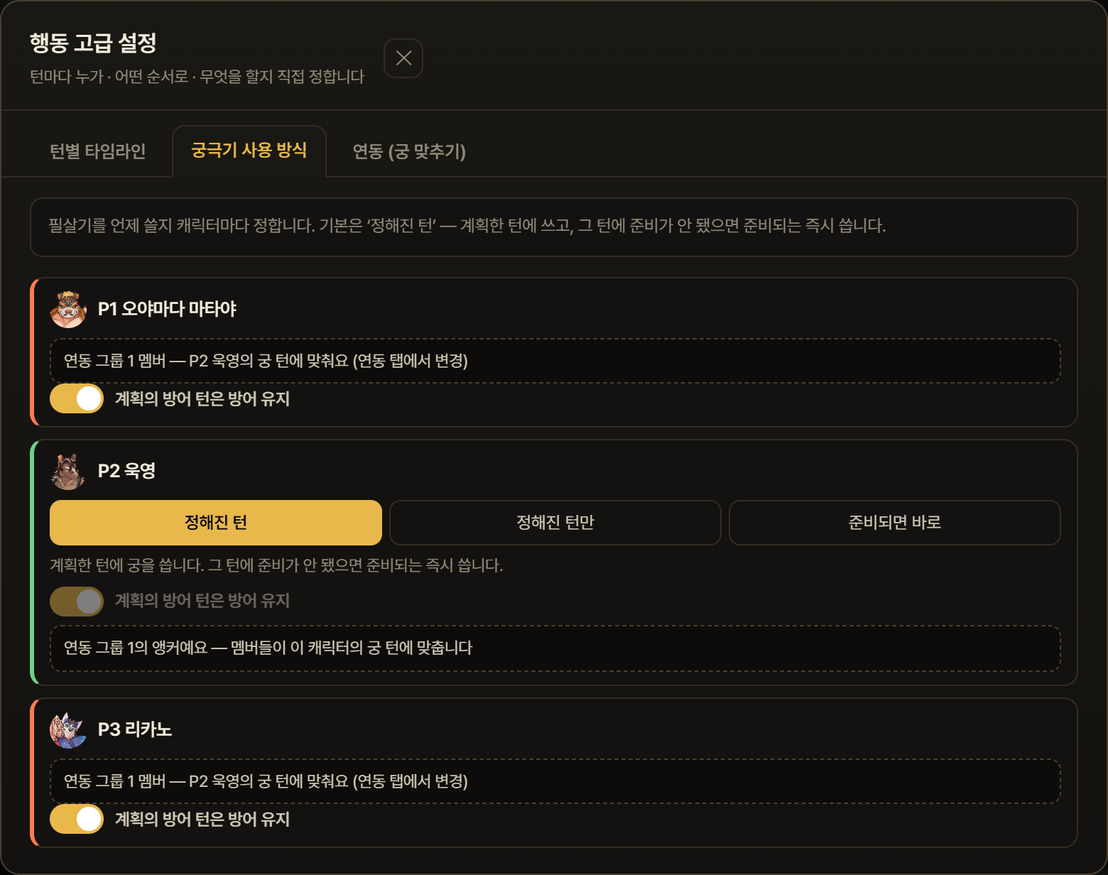
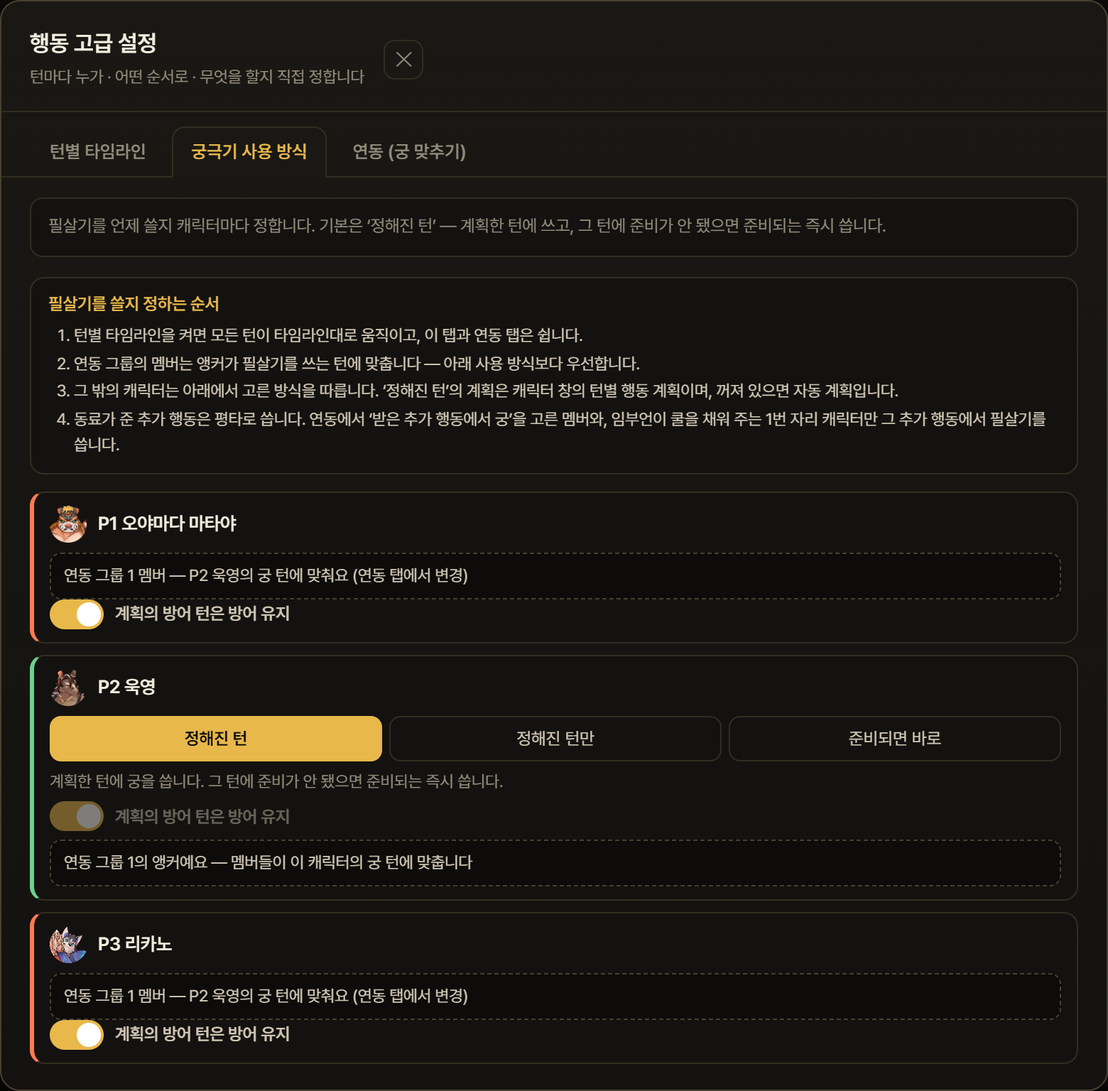
feat: 턴별 타임라인 '사용' 스위치를 탭 안으로 · 필살기 우선순위 설명 추가 · 1.8.3 패치노트 재작성
- 행동 고급 설정 머리말의 '사용' 스위치를 턴별 타임라인 탭 우측 상단으로 이동(궁극기 사용 방식·연동은 항상 적용)
- 궁극기 사용 방식 탭에 '필살기를 쓸지 정하는 순서'(타임라인 → 연동 → 사용 방식 → 추가 행동) 5개 언어
- 제단 패널의 기능 이동 안내 제거, 패치노트·가이드·README는 현재 기능 설명만
- 가이드 스크린샷(adv-head · altar-ult · altar-sync) 재촬영

diff --git a/dashboard/i18n.js b/dashboard/i18n.js
@@ -77,8 +77,8 @@
           "Ultimate policy",
         "(캐릭터마다 필살기를 언제 쓸지),":
           "(when each character uses its ultimate),",
-        "(한 캐릭터의 필살기 턴에 다른 캐릭터의 행동을 맞춤). 뒤의 두 탭은 스위치 없이 항상 적용되고, 길드 제단을 켜지 않아도 쓸 수 있습니다.":
-          "(align other characters’ actions to one character’s ultimate turn). The latter two tabs have no switch — they always apply, and work without Guild Altar settings.",
+        "(한 캐릭터의 필살기 턴에 다른 캐릭터의 행동을 맞춤). ‘사용’ 스위치는 턴별 타임라인 탭에만 있고, 나머지 두 탭은 항상 적용됩니다.":
+          "(align other characters’ actions to one character’s ultimate turn). The ‘Use’ switch is only in the Turn timeline tab; the other two tabs always apply.",
         "길드 제단 · 턴 피해":
           "Guild Altar · Turn Damage",
         "전투 설정 머리말의 버튼으로 길드전 방탈출의":
@@ -115,8 +115,8 @@
           "can only be enabled in order from Floor 1",
         "켤 수 있고, 위층을 켜면 아래층도 함께 켜집니다. 각 효과는 개별로 껐다 켤 수 있습니다.":
           "; enabling an upper floor also enables the ones below. Each effect can be toggled individually.",
-        "행동 고급 설정의 두 번째 탭입니다. 계획한 턴에 맞춰 쓸지(정해진 턴), 그 턴에만 쓸지(정해진 턴만), 준비되는 대로 바로 쓸지(준비되면 바로)를 캐릭터마다 고릅니다. 캐릭터 창에도 현재 방식이 요약되어 있고, 그 옆 버튼으로 이 탭이 바로 열립니다.":
-          "The second tab of Advanced Action Setup. Choose per character whether to use the ultimate on planned turns (Planned turns), only on those turns (Planned turns only), or as soon as it is ready (As soon as ready). The character window shows a summary of the current policy, and the button next to it opens this tab directly.",
+        "행동 고급 설정의 두 번째 탭입니다. 계획한 턴에 맞춰 쓸지(정해진 턴), 그 턴에만 쓸지(정해진 턴만), 준비되는 대로 바로 쓸지(준비되면 바로)를 캐릭터마다 고릅니다. 탭 위쪽에 필살기를 쓸지 정하는 우선순위(타임라인 → 연동 → 사용 방식 → 추가 행동)가 정리되어 있습니다. 캐릭터 창에도 현재 방식이 요약되어 있고, 그 옆 버튼으로 이 탭이 바로 열립니다.":
+          "The second tab of Advanced Action Setup. Choose per character whether to use the ultimate on planned turns (Planned turns), only on those turns (Planned turns only), or as soon as it is ready (As soon as ready). The top of the tab lists what decides the ultimate, in priority order (timeline → sync → policy → extra actions). The character window shows a summary of the current policy, and the button next to it opens this tab directly.",
         "길드 제단의 ‘행동 시 · 필살 시 확률로 CD 감소’ 효과가 걸려 있으면 필살기 쿨이 계획보다 앞당겨질 수 있습니다. 이때 탭 위에 안내가 뜨고, 버튼 하나로 전원을 ‘준비되면 바로’로 바꿀 수 있습니다.":
           "When the Guild Altar ‘chance to cut CD on action / on ultimate’ effects are active, the ultimate cooldown may come earlier than planned. A notice then appears at the top of the tab, and one button switches everyone to ‘As soon as ready’.",
         "연동 (궁 맞추기)":
@@ -303,8 +303,8 @@
           "A character with spec on gets a star badge at the bottom left of its team slot, so non-fully-invested characters stand out at a glance. In the compare window, click a character and use the “◈ Spec” button next to “Swap” to open the same screen; giving each group a different spec lets you compare investment levels directly.",
         "행동 우선순위 옆의 ‘행동 고급 설정’ 버튼을 누르면 열립니다. 턴마다 누가 · 어떤 순서로 · 무엇을 할지 전부 직접 정하는 화면입니다.":
           "Opens from the “Advanced Action Setup” button next to Action Priority. It is the screen where you decide, turn by turn, who acts, in what order, and with what action.",
-        "우측 상단 ‘사용’을 켜야 적용됩니다. 켜는 순간 행동 우선순위 · 특정 턴만 다르게 · 캐릭터별 턴별 행동 계획이 모두 이 화면으로 대체되고 잠깁니다. 끄면 원래 설정으로 돌아가고, 껐다 켜도 여기서 짠 내용은 지워지지 않습니다. 처음 켤 때는 기존 설정과 무관하게 기본 세팅에서 시작합니다.":
-          "It applies only when “Use” at the top right is on. The moment it is on, Action Priority, Per-turn override and Per-turn Action Plan are all replaced by this screen and locked. Turning it off restores the original settings, and what you built here is not erased by toggling. The first time you turn it on it starts from the default setup, independent of your existing settings.",
+        "턴별 타임라인 탭 우측 상단의 ‘사용’을 켜야 적용됩니다. 켜는 순간 행동 우선순위 · 특정 턴만 다르게 · 캐릭터별 턴별 행동 계획이 모두 이 화면으로 대체되고 잠깁니다. 끄면 원래 설정으로 돌아가고, 껐다 켜도 여기서 짠 내용은 지워지지 않습니다. 처음 켤 때는 기존 설정과 무관하게 기본 세팅에서 시작합니다.":
+          "It applies only when “Use” at the top right of the Turn timeline tab is on. The moment it is on, Action Priority, Per-turn override and Per-turn Action Plan are all replaced by this screen and locked. Turning it off restores the original settings, and what you built here is not erased by toggling. The first time you turn it on it starts from the default setup, independent of your existing settings.",
         "— 지금 턴의 편성을 통째로 복사해 다른 턴에 넣습니다. 넣을 수 없는 턴에는 거부됩니다.":
           "— copies the whole arrangement of the current turn into another turn. Turns it cannot fit are rejected.",
         "— 클립보드를 그대로 넣을 수 있는 턴을 찾아 선택만 해 줍니다. 실제 적용은 붙여넣기를 눌러야 일어나므로 어디에 들어갈지 먼저 확인할 수 있습니다. 4턴에 3턴궁 타이밍을 만든 뒤 이 버튼을 누르면 7·10·13턴이 한 번에 잡힙니다.":
@@ -724,8 +724,8 @@
           "必殺技使用方式",
         "(캐릭터마다 필살기를 언제 쓸지),":
           "（每位角色何時使用必殺技），",
-        "(한 캐릭터의 필살기 턴에 다른 캐릭터의 행동을 맞춤). 뒤의 두 탭은 스위치 없이 항상 적용되고, 길드 제단을 켜지 않아도 쓸 수 있습니다.":
-          "（讓其他角色的行動配合某位角色的必殺回合）。後兩個分頁沒有開關，永遠生效，且不開公會祭壇也能使用。",
+        "(한 캐릭터의 필살기 턴에 다른 캐릭터의 행동을 맞춤). ‘사용’ 스위치는 턴별 타임라인 탭에만 있고, 나머지 두 탭은 항상 적용됩니다.":
+          "（讓其他角色的行動配合某位角色的必殺回合）。「使用」開關只在回合時間軸分頁，其餘兩個分頁永遠生效。",
         "길드 제단 · 턴 피해":
           "公會祭壇・回合傷害",
         "전투 설정 머리말의 버튼으로 길드전 방탈출의":
@@ -762,8 +762,8 @@
           "只能從 1 樓起依序",
         "켤 수 있고, 위층을 켜면 아래층도 함께 켜집니다. 각 효과는 개별로 껐다 켤 수 있습니다.":
           "啟用，啟用上層時下層也會一併啟用。每個效果可個別開關。",
-        "행동 고급 설정의 두 번째 탭입니다. 계획한 턴에 맞춰 쓸지(정해진 턴), 그 턴에만 쓸지(정해진 턴만), 준비되는 대로 바로 쓸지(준비되면 바로)를 캐릭터마다 고릅니다. 캐릭터 창에도 현재 방식이 요약되어 있고, 그 옆 버튼으로 이 탭이 바로 열립니다.":
-          "行動進階設定的第二個分頁。為每位角色選擇在計畫回合使用（指定回合）、僅在該回合使用（僅指定回合）、或一就緒立即使用（就緒即用）。角色視窗也會摘要目前方式，旁邊的按鈕可直接開啟此分頁。",
+        "행동 고급 설정의 두 번째 탭입니다. 계획한 턴에 맞춰 쓸지(정해진 턴), 그 턴에만 쓸지(정해진 턴만), 준비되는 대로 바로 쓸지(준비되면 바로)를 캐릭터마다 고릅니다. 탭 위쪽에 필살기를 쓸지 정하는 우선순위(타임라인 → 연동 → 사용 방식 → 추가 행동)가 정리되어 있습니다. 캐릭터 창에도 현재 방식이 요약되어 있고, 그 옆 버튼으로 이 탭이 바로 열립니다.":
+          "行動進階設定的第二個分頁。為每位角色選擇在計畫回合使用（指定回合）、僅在該回合使用（僅指定回合）、或一就緒立即使用（就緒即用）。分頁上方整理了決定是否放必殺的優先順序（時間軸 → 連動 → 使用方式 → 追加行動）。角色視窗也會摘要目前方式，旁邊的按鈕可直接開啟此分頁。",
         "길드 제단의 ‘행동 시 · 필살 시 확률로 CD 감소’ 효과가 걸려 있으면 필살기 쿨이 계획보다 앞당겨질 수 있습니다. 이때 탭 위에 안내가 뜨고, 버튼 하나로 전원을 ‘준비되면 바로’로 바꿀 수 있습니다.":
           "若公會祭壇的「行動時・必殺時有機率縮短CD」生效，必殺技冷卻可能比計畫更早。此時分頁上方會顯示提示，可一鍵將全員改為「就緒即用」。",
         "연동 (궁 맞추기)":
@@ -950,8 +950,8 @@
           "開啟培養設定的角色，其編組格左下會出現星級徽章，可一眼分辨非滿培養的角色。在比較視窗中點擊角色後，可用「更換」旁的「◈ 培養」按鈕開啟同一畫面；為各比較組設定不同培養，即可直接比較培養度差異。",
         "행동 우선순위 옆의 ‘행동 고급 설정’ 버튼을 누르면 열립니다. 턴마다 누가 · 어떤 순서로 · 무엇을 할지 전부 직접 정하는 화면입니다.":
           "點擊行動優先順序旁的「行動進階設定」按鈕即可開啟。這是逐回合自行決定誰 · 依什麼順序 · 做什麼的畫面。",
-        "우측 상단 ‘사용’을 켜야 적용됩니다. 켜는 순간 행동 우선순위 · 특정 턴만 다르게 · 캐릭터별 턴별 행동 계획이 모두 이 화면으로 대체되고 잠깁니다. 끄면 원래 설정으로 돌아가고, 껐다 켜도 여기서 짠 내용은 지워지지 않습니다. 처음 켤 때는 기존 설정과 무관하게 기본 세팅에서 시작합니다.":
-          "需開啟右上的「使用」才會套用。開啟的瞬間，行動優先順序 · 指定回合不同 · 逐回合行動計畫都會由本畫面取代並鎖定。關閉後會回到原本的設定，且反覆開關也不會清除在此編排的內容。首次開啟時與既有設定無關，從預設配置開始。",
+        "턴별 타임라인 탭 우측 상단의 ‘사용’을 켜야 적용됩니다. 켜는 순간 행동 우선순위 · 특정 턴만 다르게 · 캐릭터별 턴별 행동 계획이 모두 이 화면으로 대체되고 잠깁니다. 끄면 원래 설정으로 돌아가고, 껐다 켜도 여기서 짠 내용은 지워지지 않습니다. 처음 켤 때는 기존 설정과 무관하게 기본 세팅에서 시작합니다.":
+          "需開啟回合時間軸分頁右上的「使用」才會套用。開啟的瞬間，行動優先順序 · 指定回合不同 · 逐回合行動計畫都會由本畫面取代並鎖定。關閉後會回到原本的設定，且反覆開關也不會清除在此編排的內容。首次開啟時與既有設定無關，從預設配置開始。",
         "— 지금 턴의 편성을 통째로 복사해 다른 턴에 넣습니다. 넣을 수 없는 턴에는 거부됩니다.":
           "— 將目前回合的編排整份複製到其他回合。無法放入的回合會被拒絕。",
         "— 클립보드를 그대로 넣을 수 있는 턴을 찾아 선택만 해 줍니다. 실제 적용은 붙여넣기를 눌러야 일어나므로 어디에 들어갈지 먼저 확인할 수 있습니다. 4턴에 3턴궁 타이밍을 만든 뒤 이 버튼을 누르면 7·10·13턴이 한 번에 잡힙니다.":
@@ -1522,8 +1522,8 @@
           "必杀技使用方式",
         "(캐릭터마다 필살기를 언제 쓸지),":
           "（每位角色何时使用必杀技），",
-        "(한 캐릭터의 필살기 턴에 다른 캐릭터의 행동을 맞춤). 뒤의 두 탭은 스위치 없이 항상 적용되고, 길드 제단을 켜지 않아도 쓸 수 있습니다.":
-          "（让其他角色的行动配合某位角色的必杀回合）。后两个分页没有开关，永远生效，且不开公会祭坛也能使用。",
+        "(한 캐릭터의 필살기 턴에 다른 캐릭터의 행동을 맞춤). ‘사용’ 스위치는 턴별 타임라인 탭에만 있고, 나머지 두 탭은 항상 적용됩니다.":
+          "（让其他角色的行动配合某位角色的必杀回合）。「使用」开关只在回合时间轴分页，其余两个分页永远生效。",
         "길드 제단 · 턴 피해":
           "公会祭坛・回合伤害",
         "전투 설정 머리말의 버튼으로 길드전 방탈출의":
@@ -1560,8 +1560,8 @@
           "只能从 1 层起依序",
         "켤 수 있고, 위층을 켜면 아래층도 함께 켜집니다. 각 효과는 개별로 껐다 켤 수 있습니다.":
           "启用，启用上层时下层也会一并启用。每个效果可单独开关。",
-        "행동 고급 설정의 두 번째 탭입니다. 계획한 턴에 맞춰 쓸지(정해진 턴), 그 턴에만 쓸지(정해진 턴만), 준비되는 대로 바로 쓸지(준비되면 바로)를 캐릭터마다 고릅니다. 캐릭터 창에도 현재 방식이 요약되어 있고, 그 옆 버튼으로 이 탭이 바로 열립니다.":
-          "行动进阶设置的第二个分页。为每位角色选择在计划回合使用（指定回合）、仅在该回合使用（仅指定回合）、或一就绪立即使用（就绪即用）。角色窗口也会摘要当前方式，旁边的按钮可直接打开此分页。",
+        "행동 고급 설정의 두 번째 탭입니다. 계획한 턴에 맞춰 쓸지(정해진 턴), 그 턴에만 쓸지(정해진 턴만), 준비되는 대로 바로 쓸지(준비되면 바로)를 캐릭터마다 고릅니다. 탭 위쪽에 필살기를 쓸지 정하는 우선순위(타임라인 → 연동 → 사용 방식 → 추가 행동)가 정리되어 있습니다. 캐릭터 창에도 현재 방식이 요약되어 있고, 그 옆 버튼으로 이 탭이 바로 열립니다.":
+          "行动进阶设置的第二个分页。为每位角色选择在计划回合使用（指定回合）、仅在该回合使用（仅指定回合）、或一就绪立即使用（就绪即用）。分页上方整理了决定是否放必杀的优先顺序（时间轴 → 联动 → 使用方式 → 追加行动）。角色窗口也会摘要当前方式，旁边的按钮可直接打开此分页。",
         "길드 제단의 ‘행동 시 · 필살 시 확률로 CD 감소’ 효과가 걸려 있으면 필살기 쿨이 계획보다 앞당겨질 수 있습니다. 이때 탭 위에 안내가 뜨고, 버튼 하나로 전원을 ‘준비되면 바로’로 바꿀 수 있습니다.":
           "若公会祭坛的「行动时・必杀时有概率缩短CD」生效，必杀技冷却可能比计划更早。此时分页上方会显示提示，可一键将全员改为「就绪即用」。",
         "연동 (궁 맞추기)":
@@ -1748,8 +1748,8 @@
           "开启培养设置的角色，其编组格左下会出现星级徽章，可一眼分辨非满培养的角色。在比较窗口中点击角色后，可用「更换」旁的「◈ 培养」按钮打开同一画面；为各比较组设定不同培养，即可直接比较培养度差异。",
         "행동 우선순위 옆의 ‘행동 고급 설정’ 버튼을 누르면 열립니다. 턴마다 누가 · 어떤 순서로 · 무엇을 할지 전부 직접 정하는 화면입니다.":
           "点击行动优先顺序旁的「行动进阶设置」按钮即可开启。这是逐回合自行决定谁 · 按什么顺序 · 做什么的画面。",
-        "우측 상단 ‘사용’을 켜야 적용됩니다. 켜는 순간 행동 우선순위 · 특정 턴만 다르게 · 캐릭터별 턴별 행동 계획이 모두 이 화면으로 대체되고 잠깁니다. 끄면 원래 설정으로 돌아가고, 껐다 켜도 여기서 짠 내용은 지워지지 않습니다. 처음 켤 때는 기존 설정과 무관하게 기본 세팅에서 시작합니다.":
-          "需开启右上的「使用」才会应用。开启的瞬间，行动优先顺序 · 指定回合不同 · 逐回合行动计划都会由本画面取代并锁定。关闭后会回到原本的设置，且反复开关也不会清除在此编排的内容。首次开启时与既有设置无关，从默认配置开始。",
+        "턴별 타임라인 탭 우측 상단의 ‘사용’을 켜야 적용됩니다. 켜는 순간 행동 우선순위 · 특정 턴만 다르게 · 캐릭터별 턴별 행동 계획이 모두 이 화면으로 대체되고 잠깁니다. 끄면 원래 설정으로 돌아가고, 껐다 켜도 여기서 짠 내용은 지워지지 않습니다. 처음 켤 때는 기존 설정과 무관하게 기본 세팅에서 시작합니다.":
+          "需开启回合时间轴分页右上的「使用」才会应用。开启的瞬间，行动优先顺序 · 指定回合不同 · 逐回合行动计划都会由本画面取代并锁定。关闭后会回到原本的设置，且反复开关也不会清除在此编排的内容。首次开启时与既有设置无关，从默认配置开始。",
         "— 지금 턴의 편성을 통째로 복사해 다른 턴에 넣습니다. 넣을 수 없는 턴에는 거부됩니다.":
           "— 将当前回合的编排整份复制到其他回合。无法放入的回合会被拒绝。",
         "— 클립보드를 그대로 넣을 수 있는 턴을 찾아 선택만 해 줍니다. 실제 적용은 붙여넣기를 눌러야 일어나므로 어디에 들어갈지 먼저 확인할 수 있습니다. 4턴에 3턴궁 타이밍을 만든 뒤 이 버튼을 누르면 7·10·13턴이 한 번에 잡힙니다.":
@@ -2320,8 +2320,8 @@
           "必殺技の使い方",
         "(캐릭터마다 필살기를 언제 쓸지),":
           "（キャラごとに必殺技をいつ使うか）、",
-        "(한 캐릭터의 필살기 턴에 다른 캐릭터의 행동을 맞춤). 뒤의 두 탭은 스위치 없이 항상 적용되고, 길드 제단을 켜지 않아도 쓸 수 있습니다.":
-          "（あるキャラの必殺ターンに他のキャラの行動を合わせる）。後ろの2つのタブはスイッチなしで常に適用され、ギルド祭壇を使わなくても利用できます。",
+        "(한 캐릭터의 필살기 턴에 다른 캐릭터의 행동을 맞춤). ‘사용’ 스위치는 턴별 타임라인 탭에만 있고, 나머지 두 탭은 항상 적용됩니다.":
+          "（あるキャラの必殺ターンに他のキャラの行動を合わせる）。「使用」スイッチはターン別タイムラインタブにだけあり、残り2つのタブは常に適用されます。",
         "길드 제단 · 턴 피해":
           "ギルド祭壇・ターンダメージ",
         "전투 설정 머리말의 버튼으로 길드전 방탈출의":
@@ -2358,8 +2358,8 @@
           "1階から順にのみ",
         "켤 수 있고, 위층을 켜면 아래층도 함께 켜집니다. 각 효과는 개별로 껐다 켤 수 있습니다.":
           "有効化でき、上の階を有効にすると下の階も一緒に有効になります。各効果は個別にオン・オフできます。",
-        "행동 고급 설정의 두 번째 탭입니다. 계획한 턴에 맞춰 쓸지(정해진 턴), 그 턴에만 쓸지(정해진 턴만), 준비되는 대로 바로 쓸지(준비되면 바로)를 캐릭터마다 고릅니다. 캐릭터 창에도 현재 방식이 요약되어 있고, 그 옆 버튼으로 이 탭이 바로 열립니다.":
-          "行動詳細設定の2番目のタブです。計画したターンに使う（指定ターン）、そのターンだけ使う（指定ターンのみ）、準備でき次第使う（準備でき次第）をキャラごとに選びます。キャラ画面にも現在の方式が要約され、その横のボタンでこのタブがすぐ開きます。",
+        "행동 고급 설정의 두 번째 탭입니다. 계획한 턴에 맞춰 쓸지(정해진 턴), 그 턴에만 쓸지(정해진 턴만), 준비되는 대로 바로 쓸지(준비되면 바로)를 캐릭터마다 고릅니다. 탭 위쪽에 필살기를 쓸지 정하는 우선순위(타임라인 → 연동 → 사용 방식 → 추가 행동)가 정리되어 있습니다. 캐릭터 창에도 현재 방식이 요약되어 있고, 그 옆 버튼으로 이 탭이 바로 열립니다.":
+          "行動詳細設定の2番目のタブです。計画したターンに使う（指定ターン）、そのターンだけ使う（指定ターンのみ）、準備でき次第使う（準備でき次第）をキャラごとに選びます。タブ上部に必殺技を使うかどうかの優先順位（タイムライン → 連動 → 使い方 → 追加行動）がまとめられています。キャラ画面にも現在の方式が要約され、その横のボタンでこのタブがすぐ開きます。",
         "길드 제단의 ‘행동 시 · 필살 시 확률로 CD 감소’ 효과가 걸려 있으면 필살기 쿨이 계획보다 앞당겨질 수 있습니다. 이때 탭 위에 안내가 뜨고, 버튼 하나로 전원을 ‘준비되면 바로’로 바꿀 수 있습니다.":
           "ギルド祭壇の「行動時・必殺時に確率でCD短縮」効果が有効だと、必殺技のクールが計画より早まることがあります。その場合タブ上部に案内が出て、ボタン1つで全員を「準備でき次第」に切り替えられます。",
         "연동 (궁 맞추기)":
@@ -2546,8 +2546,8 @@
           "育成設定をオンにしたキャラは編成スロットの左下に星バッジが付き、フル育成でないキャラが一目で分かります。比較ウィンドウではキャラを押したあと「入替」の隣の「◈ 育成」ボタンで同じ画面を開けます。比較群ごとに育成を変えれば、育成度の差をそのまま比較できます。",
         "행동 우선순위 옆의 ‘행동 고급 설정’ 버튼을 누르면 열립니다. 턴마다 누가 · 어떤 순서로 · 무엇을 할지 전부 직접 정하는 화면입니다.":
           "行動優先順の隣の「行動詳細設定」ボタンで開きます。ターンごとに誰が · どの順で · 何をするかをすべて自分で決める画面です。",
-        "우측 상단 ‘사용’을 켜야 적용됩니다. 켜는 순간 행동 우선순위 · 특정 턴만 다르게 · 캐릭터별 턴별 행동 계획이 모두 이 화면으로 대체되고 잠깁니다. 끄면 원래 설정으로 돌아가고, 껐다 켜도 여기서 짠 내용은 지워지지 않습니다. 처음 켤 때는 기존 설정과 무관하게 기본 세팅에서 시작합니다.":
-          "右上の「使用」をオンにして初めて適用されます。オンにした瞬間、行動優先順 · 特定ターンのみ変更 · キャラ別ターン別行動計画がすべてこの画面に置き換わりロックされます。オフにすれば元の設定に戻り、切り替えてもここで組んだ内容は消えません。初回オン時は既存設定と無関係に初期配置から始まります。",
+        "턴별 타임라인 탭 우측 상단의 ‘사용’을 켜야 적용됩니다. 켜는 순간 행동 우선순위 · 특정 턴만 다르게 · 캐릭터별 턴별 행동 계획이 모두 이 화면으로 대체되고 잠깁니다. 끄면 원래 설정으로 돌아가고, 껐다 켜도 여기서 짠 내용은 지워지지 않습니다. 처음 켤 때는 기존 설정과 무관하게 기본 세팅에서 시작합니다.":
+          "ターン別タイムラインタブ右上の「使用」をオンにして初めて適用されます。オンにした瞬間、行動優先順 · 特定ターンのみ変更 · キャラ別ターン別行動計画がすべてこの画面に置き換わりロックされます。オフにすれば元の設定に戻り、切り替えてもここで組んだ内容は消えません。初回オン時は既存設定と無関係に初期配置から始まります。",
         "— 지금 턴의 편성을 통째로 복사해 다른 턴에 넣습니다. 넣을 수 없는 턴에는 거부됩니다.":
           "— 現在のターンの編成を丸ごとコピーして別のターンに入れます。入れられないターンには拒否されます。",
         "— 클립보드를 그대로 넣을 수 있는 턴을 찾아 선택만 해 줍니다. 실제 적용은 붙여넣기를 눌러야 일어나므로 어디에 들어갈지 먼저 확인할 수 있습니다. 4턴에 3턴궁 타이밍을 만든 뒤 이 버튼을 누르면 7·10·13턴이 한 번에 잡힙니다.":

diff --git a/dashboard/app.js b/dashboard/app.js
@@ -1440,12 +1440,27 @@ const ADV_T = {
                ja: 'タイムラインがオンの間は適用されない設定：{0}。反映するには「既存設定を読み込む」を押してください。' },
   conflictOv: { kr: '특정 턴만 다르게({0}턴)', en: 'Per-turn order (T{0})', zh: '特定回合順序（第 {0} 回合）', zhs: '特定回合顺序（第 {0} 回合）', ja: '特定ターンの順序（{0}ターン）' },
   conflictPlan: { kr: '캐릭터별 턴 계획({0})', en: 'Per-character turn plans ({0})', zh: '角色回合計畫（{0}）', zhs: '角色回合计划（{0}）', ja: 'キャラ別ターン計画（{0}）' },
-  altarMoved: { kr: '연동(궁 맞추기)과 궁극기 사용 방식은 행동 고급 설정으로 옮겨졌어요 — 제단을 켜지 않아도 쓸 수 있어요.',
-               en: 'Sync (ultimate timing) and Ultimate policy moved to Advanced Action Setup — they work without altars too.',
-               zh: '連動（必殺同步）與必殺技使用方式已移至行動進階設定 — 不開祭壇也能使用。',
-               zhs: '联动（必杀同步）与必杀技使用方式已移至行动进阶设置 — 不开祭坛也能使用。',
-               ja: '連動（必殺同期）と必殺技の使い方は行動詳細設定に移りました — 祭壇を使わなくても使えます。' },
-  altarMovedOpen: { kr: '열기', en: 'Open', zh: '開啟', zhs: '打开', ja: '開く' },
+  orderTitle: { kr: '필살기를 쓸지 정하는 순서', en: 'What decides the ultimate (highest first)', zh: '決定是否使用必殺技的優先順序', zhs: '决定是否使用必杀技的优先顺序', ja: '必殺技を使うかどうかの優先順位' },
+  order1:    { kr: '턴별 타임라인을 켜면 모든 턴이 타임라인대로 움직이고, 이 탭과 연동 탭은 쉽니다.',
+               en: 'With the turn timeline on, every turn follows the timeline and this tab and the Sync tab are paused.',
+               zh: '開啟回合時間軸時，所有回合依時間軸行動，此分頁與連動分頁暫停。',
+               zhs: '开启回合时间轴时，所有回合依时间轴行动，此分页与联动分页暂停。',
+               ja: 'ターン別タイムラインをオンにすると全ターンがタイムライン通りに動き、このタブと連動タブは休みます。' },
+  order2:    { kr: '연동 그룹의 멤버는 앵커가 필살기를 쓰는 턴에 맞춥니다 — 아래 사용 방식보다 우선합니다.',
+               en: 'Sync group members follow the turns their anchor uses its ultimate — this overrides the policy below.',
+               zh: '連動組成員配合錨點使用必殺技的回合 — 優先於下方的使用方式。',
+               zhs: '联动组成员配合锚点使用必杀技的回合 — 优先于下方的使用方式。',
+               ja: '連動グループのメンバーはアンカーが必殺技を使うターンに合わせます — 下の使い方より優先します。' },
+  order3:    { kr: '그 밖의 캐릭터는 아래에서 고른 방식을 따릅니다. ‘정해진 턴’의 계획은 캐릭터 창의 턴별 행동 계획이며, 꺼져 있으면 자동 계획입니다.',
+               en: 'Everyone else follows the policy chosen below. The plan behind ‘Planned turns’ is the per-turn action plan in the character window, or the automatic plan when that is off.',
+               zh: '其他角色依下方選擇的方式。「指定回合」的計畫是角色視窗中的逐回合行動計畫，關閉時為自動計畫。',
+               zhs: '其他角色依下方选择的方式。「指定回合」的计划是角色窗口中的逐回合行动计划，关闭时为自动计划。',
+               ja: 'それ以外のキャラは下で選んだ方式に従います。「指定ターン」の計画はキャラ画面のターン別行動計画で、オフなら自動計画です。' },
+  order4:    { kr: '동료가 준 추가 행동은 평타로 씁니다. 연동에서 ‘받은 추가 행동에서 궁’을 고른 멤버와, 임부언이 쿨을 채워 주는 1번 자리 캐릭터만 그 추가 행동에서 필살기를 씁니다.',
+               en: 'Extra actions granted by allies are used as attacks. Only sync members set to ‘ultimate in the granted extra action’ and the position-1 character whose cooldown Boss Ren refills use the ultimate there.',
+               zh: '隊友給予的追加行動以普攻使用。只有在連動中選擇「用獲得的追加行動放必殺」的成員，以及由任富言補滿冷卻的 1 號位角色，會在該追加行動中放必殺。',
+               zhs: '队友给予的追加行动以普攻使用。只有在联动中选择「用获得的追加行动放必杀」的成员，以及由任富言补满冷却的 1 号位角色，会在该追加行动中放必杀。',
+               ja: '味方からもらった追加行動は通常攻撃になります。連動で「もらった追加行動で必殺」を選んだメンバーと、任富言がクールを満たす1番位置のキャラだけが、その追加行動で必殺技を使います。' },
 };
 function advT(key, ...args) {             // 로컬 사전 → 현재 언어(없으면 kr) + {n} 치환
   const v = ADV_T[key];
@@ -1880,17 +1895,16 @@ function renderCellPop(card) {
 
 function renderAdv() {
   const card = document.querySelector('.adv-card'); if (!card) return;
-  // ── 탭: 세 패널 중 하나만 보인다. '사용' 스위치는 타임라인 탭에만 뜬다(다른 두 탭은 항상 적용).
+  // ── 탭: 세 패널 중 하나만 보인다. '사용' 스위치는 타임라인 탭 안에 있다(다른 두 탭은 항상 적용).
   card.querySelectorAll('[data-advtab]').forEach(b => {
     b.classList.toggle('on', b.dataset.advtab === advTab);
     b.setAttribute('aria-selected', b.dataset.advtab === advTab ? 'true' : 'false');
   });
   ['time', 'ult', 'sync'].forEach(t => { const pane = $('.adv-pane-' + t, card); if (pane) pane.hidden = advTab !== t; });
-  const swWrap = $('#advSwitchWrap', card); if (swWrap) swWrap.hidden = advTab !== 'time';
   renderAdvUlt(card);
   renderAdvSync(card);
   renderAdvConflict(card);
-  $('.adv-pane-time', card).classList.toggle('off', !advOn);
+  $('.adv-time-body', card).classList.toggle('off', !advOn);   // 스위치는 흐리게 하지 않는다(켜야 하니까)
   const n = advTurns();
   if (advSel > n) advSel = n;
 
@@ -2048,6 +2062,7 @@ function renderAdvUlt(card) {
   const pane = $('.adv-pane-ult', card); if (!pane) return;
   const roster = aTeam();
   let html = `<div class="adv-hint">${esc(advT('ultHint'))}</div>`;
+  html += `<div class="adv-order"><b>${esc(advT('orderTitle'))}</b><ol>${[1, 2, 3, 4].map(n => `<li>${esc(advT('order' + n))}</li>`).join('')}</ol></div>`;
   if (advOn) html += `<div class="adv-note lock">${esc(advT('timeOn'))}</div>`;
   if (altarProcCdActive().length) html += `<div class="adv-note warn"><span>${esc(advT('cdProcWarn'))}</span>
     <button type="button" class="btn-ghost sm" data-ultall="asap">${esc(advT('cdProcAll'))}</button></div>`;
@@ -2206,7 +2221,6 @@ function openAdvPop() {
   pop.innerHTML = `<div class="adv-card" role="dialog" aria-modal="true" aria-label="행동 고급 설정">
   <div class="adv-head">
     <h3>행동 고급 설정${advScope ? ` <em class="adv-scope">비교군 ${advScope.toUpperCase()}</em>` : ''}<span class="adv-sub">턴마다 누가 · 어떤 순서로 · 무엇을 할지 직접 정합니다</span></h3>
-    <label class="toggle" id="advSwitchWrap"><input type="checkbox" id="advSwitch" ${advOn ? 'checked' : ''}><span class="sw"></span>사용</label>
     <button type="button" class="adv-x" data-advclose aria-label="닫기">✕</button>
   </div>
   <div class="adv-tabs i18n-skip" role="tablist">
@@ -2214,8 +2228,12 @@ function openAdvPop() {
     <button type="button" role="tab" data-advtab="ult">${esc(altarT('ultTitle'))}</button>
     <button type="button" role="tab" data-advtab="sync">${esc(advT('tabSync'))}</button>
   </div>
-  <div class="adv-body adv-pane adv-pane-time ${advOn ? '' : 'off'}">
-    <div class="adv-hint">켜면 행동 우선순위 · 특정 턴만 다르게 · 캐릭터별 턴별 행동 계획이 모두 이 화면으로 대체됩니다. 같은 캐릭터가 한 턴에 여러 번 행동할 수 있고, ‘추가’ 표시는 앞선 필살기가 만들어 준 행동입니다.</div>
+  <div class="adv-body adv-pane adv-pane-time">
+    <div class="adv-timehead">
+      <div class="adv-hint">켜면 행동 우선순위 · 특정 턴만 다르게 · 캐릭터별 턴별 행동 계획이 모두 이 화면으로 대체됩니다. 같은 캐릭터가 한 턴에 여러 번 행동할 수 있고, ‘추가’ 표시는 앞선 필살기가 만들어 준 행동입니다.</div>
+      <label class="toggle" id="advSwitchWrap"><input type="checkbox" id="advSwitch" ${advOn ? 'checked' : ''}><span class="sw"></span>사용</label>
+    </div>
+    <div class="adv-time-body ${advOn ? '' : 'off'}">
     <div class="adv-note warn adv-conflict i18n-skip" hidden></div>
     <div class="adv-tools">
       <button type="button" class="btn-ghost sm" id="advCopy">복사</button>
@@ -2241,6 +2259,7 @@ function openAdvPop() {
       <button type="button" class="btn-ghost sm" id="advResetAll">전체 턴 기본값으로</button>
       <button type="button" class="btn-ghost sm" id="advImport"
         title="캐릭터별 턴 계획 · 행동 우선순위 · 특정 턴 순서로 돌린 결과를 타임라인으로 가져옵니다">기존 설정 불러오기</button>
+    </div>
     </div>
   </div>
   <div class="adv-body adv-pane adv-pane-ult i18n-skip" hidden></div>
@@ -3105,11 +3124,6 @@ function _decAltar(str) {
   return out;
 }
 
-function altarMovedHTML() {               // 패널 하단: 연동·궁극기 사용 방식이 행동 고급 설정으로 옮겨졌다는 안내 + 바로 열기
-  return `<div class="altar-moved"><span>${esc(advT('altarMoved'))}</span>
-    <button type="button" class="btn-ghost sm" data-advopen="sync">${esc(advT('altarMovedOpen'))}</button></div>`;
-}
-// 메인 캐릭터 창: 현재 방식 요약 + '행동 고급 설정에서 변경'(편집은 한 곳으로). i18n-skip — 이 모듈이 직접 렌더.
 function ultSummaryHTML(slot, pos) {
   const u = ultOf(slot), grp = syncGroupOf(pos);
   const now = (grp && grp.role === 'member')
@@ -3234,7 +3248,7 @@ function altarBodyHTML() {
     </section>`;
   }).join('');
   return `<div class="altar-hint">${esc(altarT('hint'))}<br><b>${esc(altarT('floorRule'))}</b></div>`
-    + `${floors}${altarMovedHTML()}<div class="altar-note">${esc(altarT('note'))}</div>`;
+    + `${floors}<div class="altar-note">${esc(altarT('note'))}</div>`;
 }
 function altarHost() {                     // 현재 열린 컨테이너(팝업 .altar-card / 사이드 .altar-inner)
   return document.querySelector('.altar-modal .altar-card') || document.querySelector('#altarSide .altar-inner');

diff --git a/dashboard/index.html b/dashboard/index.html
@@ -266,10 +266,10 @@
       <figure><img src="guide/turn-priority.png" alt="특정 턴만 다르게"></figure>
 
       <h4>행동 고급 설정</h4>
-      <p>행동 우선순위 옆의 ‘행동 고급 설정’ 버튼을 누르면 열립니다. 탭이 세 개입니다 — <b>턴별 타임라인</b>(턴마다 누가 · 어떤 순서로 · 무엇을 할지 전부 직접 정함), <b>궁극기 사용 방식</b>(캐릭터마다 필살기를 언제 쓸지), <b>연동</b>(한 캐릭터의 필살기 턴에 다른 캐릭터의 행동을 맞춤). 뒤의 두 탭은 스위치 없이 항상 적용되고, 길드 제단을 켜지 않아도 쓸 수 있습니다.</p>
+      <p>행동 우선순위 옆의 ‘행동 고급 설정’ 버튼을 누르면 열립니다. 탭이 세 개입니다 — <b>턴별 타임라인</b>(턴마다 누가 · 어떤 순서로 · 무엇을 할지 전부 직접 정함), <b>궁극기 사용 방식</b>(캐릭터마다 필살기를 언제 쓸지), <b>연동</b>(한 캐릭터의 필살기 턴에 다른 캐릭터의 행동을 맞춤). ‘사용’ 스위치는 턴별 타임라인 탭에만 있고, 나머지 두 탭은 항상 적용됩니다.</p>
 
       <figure class="g-crop"><img src="guide/adv-head.png" alt="고급 설정 머리말"></figure>
-      <p>우측 상단 ‘사용’을 켜야 적용됩니다. 켜는 순간 행동 우선순위 · 특정 턴만 다르게 · 캐릭터별 턴별 행동 계획이 모두 이 화면으로 대체되고 잠깁니다. 끄면 원래 설정으로 돌아가고, 껐다 켜도 여기서 짠 내용은 지워지지 않습니다. 처음 켤 때는 기존 설정과 무관하게 기본 세팅에서 시작합니다.</p>
+      <p>턴별 타임라인 탭 우측 상단의 ‘사용’을 켜야 적용됩니다. 켜는 순간 행동 우선순위 · 특정 턴만 다르게 · 캐릭터별 턴별 행동 계획이 모두 이 화면으로 대체되고 잠깁니다. 끄면 원래 설정으로 돌아가고, 껐다 켜도 여기서 짠 내용은 지워지지 않습니다. 처음 켤 때는 기존 설정과 무관하게 기본 세팅에서 시작합니다.</p>
 
       <figure class="g-crop"><img src="guide/adv-tools.png" alt="편집 도구"></figure>
       <ul>
@@ -326,7 +326,7 @@
       <figure class="g-crop"><img src="guide/altar-panel.png" alt="길드 제단 설정 패널"></figure>
 
       <h4>궁극기 사용 방식</h4>
-      <p>행동 고급 설정의 두 번째 탭입니다. 계획한 턴에 맞춰 쓸지(정해진 턴), 그 턴에만 쓸지(정해진 턴만), 준비되는 대로 바로 쓸지(준비되면 바로)를 캐릭터마다 고릅니다. 캐릭터 창에도 현재 방식이 요약되어 있고, 그 옆 버튼으로 이 탭이 바로 열립니다.</p>
+      <p>행동 고급 설정의 두 번째 탭입니다. 계획한 턴에 맞춰 쓸지(정해진 턴), 그 턴에만 쓸지(정해진 턴만), 준비되는 대로 바로 쓸지(준비되면 바로)를 캐릭터마다 고릅니다. 탭 위쪽에 필살기를 쓸지 정하는 우선순위(타임라인 → 연동 → 사용 방식 → 추가 행동)가 정리되어 있습니다. 캐릭터 창에도 현재 방식이 요약되어 있고, 그 옆 버튼으로 이 탭이 바로 열립니다.</p>
       <p class="g-note">길드 제단의 ‘행동 시 · 필살 시 확률로 CD 감소’ 효과가 걸려 있으면 필살기 쿨이 계획보다 앞당겨질 수 있습니다. 이때 탭 위에 안내가 뜨고, 버튼 하나로 전원을 ‘준비되면 바로’로 바꿀 수 있습니다.</p>
       <figure class="g-crop"><img src="guide/altar-ult.png" alt="궁극기 사용 방식"></figure>
 

diff --git a/dashboard/style.css b/dashboard/style.css
@@ -1447,11 +1447,18 @@ input[type=range]::-webkit-slider-thumb{-webkit-appearance:none;width:15px;heigh
 .sg-preset{display:flex;flex-wrap:wrap;align-items:center;gap:6px 10px;font-size:11.5px;color:var(--muted);line-height:1.45;margin-bottom:4px}
 .sg-preset .btn-ghost.sm{margin:0;flex:none;color:var(--gold);border-color:var(--gold-d)}
 .sg-preset span{flex:1;min-width:200px}
-/* 제단 패널 하단 이동 안내 · 캐릭터 창 요약 */
-.altar-moved{display:flex;flex-wrap:wrap;align-items:center;gap:6px 10px;margin-top:14px;font-size:11.5px;color:var(--muted);line-height:1.45;
-  border:1px dashed var(--line2);border-radius:10px;padding:9px 11px;background:var(--bg2)}
-.altar-moved span{flex:1;min-width:180px}
-.altar-moved .btn-ghost.sm{margin:0;flex:none}
+/* 타임라인 탭 머리: 안내 + 우측 상단 사용 스위치 · 스위치를 뺀 본문만 흐리게 */
+.adv-timehead{display:flex;align-items:flex-start;gap:14px}
+.adv-timehead .adv-hint{flex:1;min-width:0}
+.adv-timehead .toggle{flex:none;margin-top:8px}
+.adv-time-body{transition:opacity .18s}
+.adv-time-body.off{opacity:.32;pointer-events:none}
+/* 궁극기 사용 방식 탭: 우선순위 설명 */
+.adv-order{font-size:11.5px;color:var(--text2);line-height:1.55;border:1px solid var(--line);border-radius:10px;background:var(--bg2);padding:9px 12px 8px;margin-bottom:12px}
+.adv-order b{display:block;font-size:12px;color:var(--gold);margin-bottom:4px}
+.adv-order ol{margin:0;padding-left:18px}
+.adv-order li{margin:2px 0}
+/* 캐릭터 창 요약 */
 .mc-ult .ult-title{margin-bottom:0;flex-wrap:wrap}
 .mc-ult .ult-title em{flex:1;min-width:120px}
 .mc-ult .ult-open{margin:0;flex:none;font-size:11px}

diff --git a/tools/uitest_sync.js b/tools/uitest_sync.js
@@ -104,10 +104,13 @@ async function main() {
     const tabs = $$('[data-advtab]', card);
     if (tabs.length !== 3) bad(`탭 3개 기대, ${tabs.length}`);
     if ($('.adv-pane-time', card).hidden || !$('.adv-pane-ult', card).hidden || !$('.adv-pane-sync', card).hidden) bad('처음엔 타임라인 탭만 보여야 함');
-    if ($('#advSwitchWrap', card).hidden) bad("타임라인 탭에선 '사용' 스위치가 보여야 함");
+    if ($('#advSwitchWrap', card).closest('[hidden]')) bad("타임라인 탭에선 '사용' 스위치가 보여야 함");
+    if (!$('#advSwitchWrap', card).closest('.adv-pane-time')) bad("'사용' 스위치는 타임라인 탭 안에 있어야 함");
+    if ($('#advSwitchWrap', card).closest('.off')) bad("스위치가 흐린(.off) 영역 안에 있으면 켤 수 없음");
     click($('[data-advtab="ult"]', card)); await sleep(20);
     if ($('.adv-pane-ult', card).hidden || !$('.adv-pane-time', card).hidden) bad('궁극기 사용 방식 탭 전환 실패');
-    if (!$('#advSwitchWrap', card).hidden) bad("다른 탭에선 '사용' 스위치를 숨겨야 함(항상 적용)");
+    if (!$('#advSwitchWrap', card).closest('[hidden]')) bad("다른 탭에선 '사용' 스위치가 보이면 안 됨(항상 적용)");
+    if ($$('.adv-pane-ult .adv-order li', card).length !== 4) bad('궁극기 사용 방식 탭에 우선순위 설명(4항목)이 없음');
     if (!$('[data-advtab="ult"]', card).classList.contains('on')) bad('선택된 탭에 .on 이 없음');
     ok('탭 3개 · 전환 · 스위치는 타임라인 탭에서만');
 

diff --git a/tools/guide_shots.js b/tools/guide_shots.js
@@ -47,6 +47,17 @@ const MATAYA = 10442, UK = 10439, RICANO = 10428;
       await page.evaluate(() => { if (advCloseFn) advCloseFn(); });
       console.log('saved', file);
     };
+    // 머리말 + 탭 + 타임라인 탭 머리(우측 상단 '사용' 스위치)까지 — 가이드 adv-head.png
+    await page.evaluate(() => { advTab = 'time'; openAdvPop(); });
+    await page.waitForSelector('.adv-card .adv-pane-time:not([hidden]) .adv-timehead', { timeout: 30000 });
+    await new Promise(r => setTimeout(r, 600));
+    const box = await page.evaluate(() => {
+      const c = document.querySelector('.adv-card').getBoundingClientRect(), h = document.querySelector('.adv-timehead').getBoundingClientRect();
+      return { x: c.left, y: c.top, width: c.width, height: h.bottom - c.top + 4 };
+    });
+    await page.screenshot({ path: path.join(OUT, 'adv-head.png'), clip: box });
+    await page.evaluate(() => { if (advCloseFn) advCloseFn(); });
+    console.log('saved adv-head.png');
     await shoot('ult', 'altar-ult.png');
     await shoot('sync', 'altar-sync.png');
     fs.copyFileSync(path.join(OUT, 'altar-sync.png'), path.join(DOCS, 'altar-sync.png'));

diff --git a/tools/uitest_altar.js b/tools/uitest_altar.js
@@ -261,9 +261,8 @@ async function main() {
     }
     app.closeCharModal();
     app.closeAltar(); await sleep(450); app.openAltar(); await sleep(30);
-    if ($('#altarSide .altar-sync') || $('#altarSide [data-anchor]')) bad('제단 패널에 맞추기 그룹 편집이 남아 있으면 안 됨(행동 고급 설정으로 이동)');
-    else if (!$('#altarSide .altar-moved [data-advopen="sync"]')) bad('제단 패널 하단에 연동 이동 안내·열기 버튼이 없음');
-    else ok('제단 패널: 연동·사용 방식 이동 안내 + 열기');
+    if ($('#altarSide .altar-sync') || $('#altarSide [data-anchor]')) bad('제단 패널엔 연동 편집이 없어야 함(행동 고급 설정 연동 탭)');
+    else ok('제단 패널: 제단 효과만 (연동 편집 없음)');
     app.applyAltarSnap(null);
     if (app.altarOn) bad('applyAltarSnap(null) 이면 제단 OFF 여야 함');
     if (app.cdPlus() !== 0) bad('제단 OFF면 cdPlus 0');
